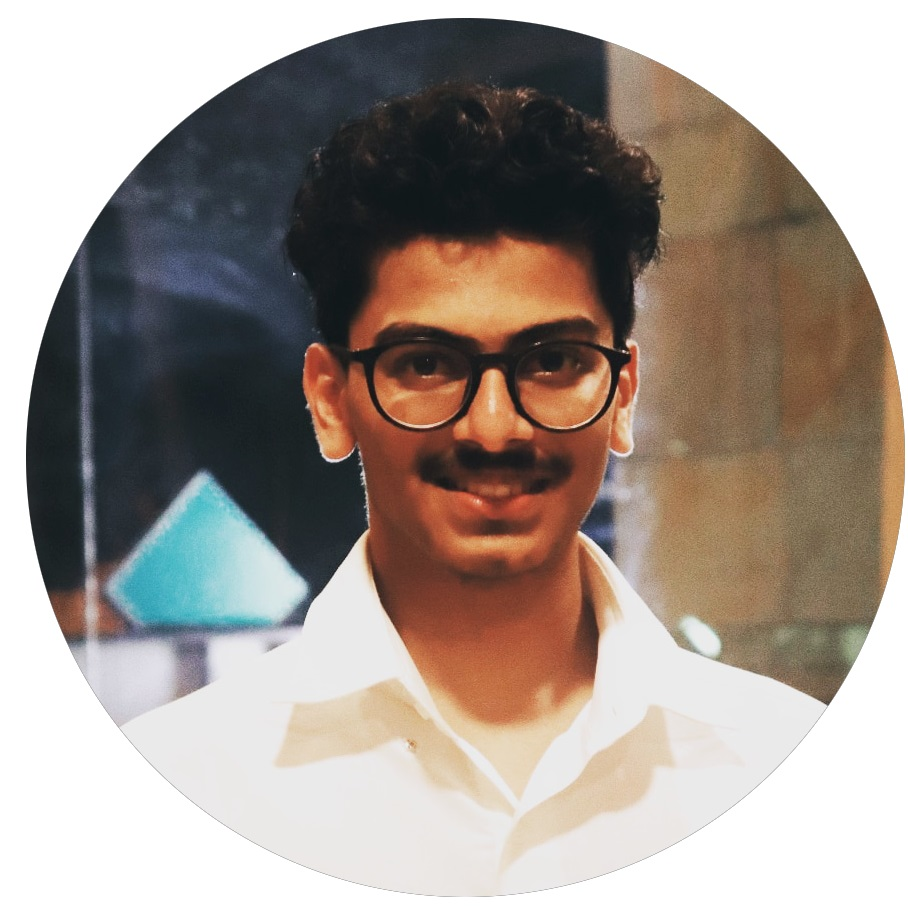
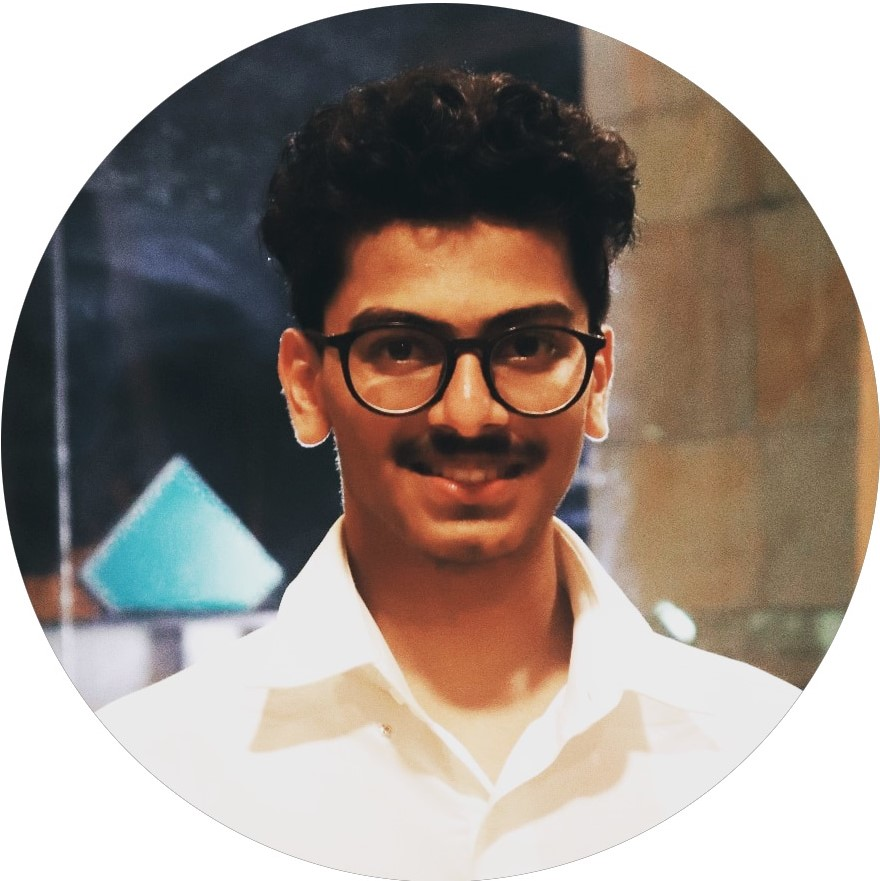
Commit 2 base

diff --git a/templates/index.html b/templates/index.html
@@ -1,10 +1,9 @@
-
 {% include "header.html" %}
 <section class="top_section">
     <nav class="navbar navbar-expand-lg navbar-dark" style="background-color: #0000009e;padding: 20px 10px">
         <div class="container-fluid">
             <a class="navbar-brand" href="#">
-                <img src="static/img/chrome.jpg" alt="" width="30" height="30" style="border-radius: 50%"
+                <img src="static/img/mypic.jpg" alt="" width="30" height="30" style="border-radius: 50%"
                      class="d-inline-block align-text-top">
                 Satyam's
             </a>
@@ -34,7 +33,11 @@
     </div>
 </section>
 
-<section class="about_me" id ='About'>
+<section class="about_me" id='About'>
+    <div style="text-align: center">
+        <img src="static/img/mypic.jpg" alt=""
+             style="margin: 40px auto; width: 250px;height: 250px; border-radius: 50%">
+    </div>
     <div class="container">
         <h2>About me</h2>
         <hr class="hr_main hr_yellow">
